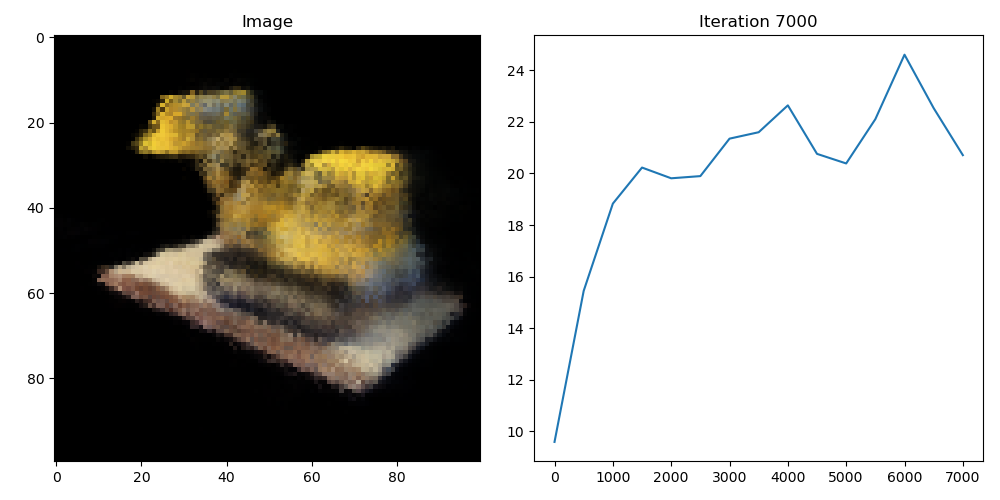
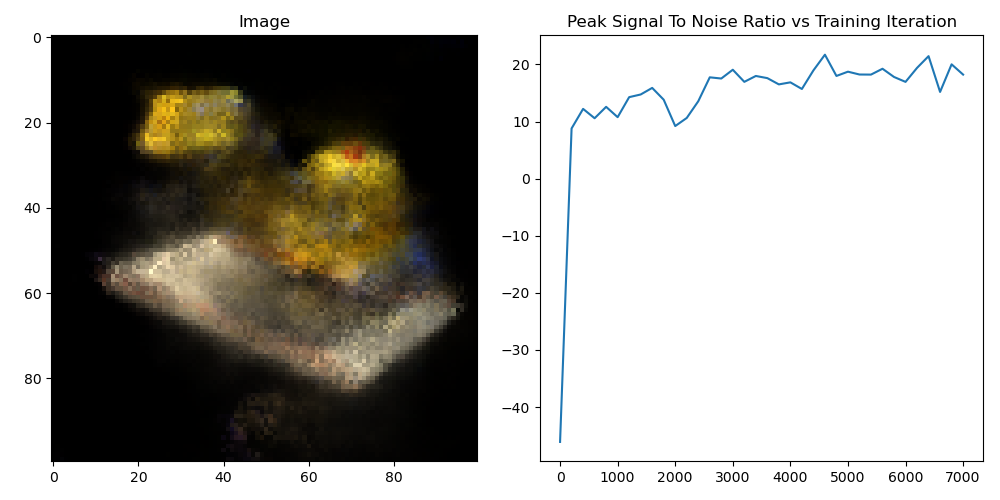
Refactor files to retest tiny NeRF

diff --git a/main.py b/main.py
@@ -3,10 +3,11 @@ from typing import Optional
 import torch
 from matplotlib import pyplot as plt
 from tqdm import tqdm
-# from data_loader import DataLoader
-from lego_data_loader import DataLoader
+from data_loader import DataLoader
+#from lego_data_loader import DataLoader
 from display_helper import display_image, create_video, save_image
 from models.small_NeRF_model import SmallNerfModel
+from models.tiny_NeRF_model import TinyNerfModel
 from nerf_forward_pass import NeRFManager
 from positional_encoding import positional_encoding
 from query_points import QueryPointSamplerFromRays
@@ -21,8 +22,9 @@ def get_minibatches(inputs: torch.Tensor, chunksize: Optional[int] = 2):
 set_random_seeds()
 training_config = load_training_config_yaml()
 device = get_tensor_device()
-# data_manager = DataLoader('tiny_nerf_data.npz', device=device)
-data_manager = DataLoader(device)
+print(f'device: {device}')
+data_manager = DataLoader('tiny_nerf_data.npz', device)
+#data_manager = DataLoader(device)
 
 print(f'data manager poses')
 print(data_manager.poses.shape)
@@ -32,6 +34,7 @@ print(data_manager.poses[0])
 lr = training_config['training_variables']['learning_rate']
 num_iters = training_config['training_variables']['num_iters']
 num_encoding_functions = training_config['positional_encoding']['num_encoding_functions']
+depth_samples_per_ray = training_config['rendering_variables']['depth_samples_per_ray']
 
 # Misc parameters
 display_every = training_config['display_variables']['display_every']
@@ -40,22 +43,17 @@ display_every = training_config['display_variables']['display_every']
 encode = lambda x: positional_encoding(x, num_encoding_functions)
 
 # Initialize model and optimizer
-model = SmallNerfModel(num_encoding_functions).to(device)
+model = TinyNerfModel(num_encoding_functions).to(device)
+#model = SmallNerfModel(num_encoding_functions).to(device)
 optimizer = torch.optim.Adam(model.parameters(), lr=lr)
 
 # Setup classes
 query_sampler = QueryPointSamplerFromRays(training_config)
 rays_from_camera_builder = RaysFromCameraBuilder(data_manager, device)
-NeRF_manager = NeRFManager(encode, rays_from_camera_builder, query_sampler)
+NeRF_manager = NeRFManager(encode, rays_from_camera_builder, query_sampler, depth_samples_per_ray, num_encoding_functions)
 
 psnrs = []
 test_img, test_pose = data_manager.get_random_image_and_pose_example()
-#plt.imshow(test_img.cpu())
-#print(f'test image: {test_img.shape}')
-#for row in test_img.cpu():
-#    for col in row:
-#        if col[0] != 0 and col[1] != 0 and col[2] != 0:
-#            print(col)
 for i in tqdm(range(num_iters)):
 
     target_img, target_tform_cam2world = data_manager.get_image_and_pose(i)
@@ -69,7 +67,7 @@ for i in tqdm(range(num_iters)):
         psnrs.append(psnr.item())
 
         print("Loss:", loss.item())
-        display_image(i, display_every, psnrs, rgb_predicted.clip(0, 255)/255)
+        display_image(i, display_every, psnrs, rgb_predicted)#/255)
 
     if i == num_iters - 1:
         save_image(display_every, psnrs, rgb_predicted)

diff --git a/nerf_forward_pass.py b/nerf_forward_pass.py
@@ -6,11 +6,13 @@ from render_volume_density import render_volume_density
 
 
 class NeRFManager(nn.Module):
-    def __init__(self, encoding_function, rays_from_camera_builder, query_sampler):
+    def __init__(self, encoding_function, rays_from_camera_builder, query_sampler, depth_samples_per_ray, num_encoding_functions):
         super().__init__()
         self.encoding_function = encoding_function
         self.rays_from_camera_builder = rays_from_camera_builder
         self.query_sampler = query_sampler
+        self.depth_samples_per_ray = depth_samples_per_ray
+        self.input_dim = 3 + 3 * 2 * num_encoding_functions
 
     def forward(self, model, tform_cam2world, target_img, optimizer):
 
@@ -19,19 +21,18 @@ class NeRFManager(nn.Module):
         query_points, depth_values = self.query_sampler.compute_query_points_from_rays(ray_origins, ray_directions)
 
         encoded_points = self.encoding_function(query_points)
-
-        encoded_points_example = encoded_points.reshape(-1, 32, 63)
+        encoded_points_example = encoded_points.reshape(-1, self.query_sampler.depth_samples_per_ray, self.input_dim)
 
         rgb_predicted = []
         loss_sum = 0
-        chunksize = 400
+        chunksize = 1000
         num_of_chunks = encoded_points_example.shape[0] // chunksize
         for j in range(0, encoded_points_example.shape[0], chunksize):
             cur_encoded_points = encoded_points_example[j: j+chunksize]
 
             rgb, density = model(cur_encoded_points)
 
-            cur_depth_values = depth_values.reshape(-1, 32)[j: j+chunksize]
+            cur_depth_values = depth_values.reshape(-1, self.query_sampler.depth_samples_per_ray)[j: j+chunksize]
 
             cur_rgb_predicted = render_volume_density(rgb, density, cur_depth_values)
 
@@ -45,5 +46,5 @@ class NeRFManager(nn.Module):
             optimizer.zero_grad()
             model.zero_grad()
 
-        rgb_predicted = torch.concatenate(rgb_predicted, dim=0).reshape(800, 800, 3)
+        rgb_predicted = torch.concatenate(rgb_predicted, dim=0).reshape(100, 100, 3)
         return rgb_predicted, loss_sum

diff --git a/models/tiny_NeRF_model.py b/models/tiny_NeRF_model.py
@@ -1,9 +1,9 @@
 import torch
 
 
-class VeryTinyNerfModel(torch.nn.Module):
-    def __init__(self, filter_size=128, num_encoding_functions=6):
-        super(VeryTinyNerfModel, self).__init__()
+class TinyNerfModel(torch.nn.Module):
+    def __init__(self, num_encoding_functions, filter_size=128):
+        super(TinyNerfModel, self).__init__()
         # Input layer (default: 39 -> 128)
         self.layer1 = torch.nn.Linear(3 + 3 * 2 * num_encoding_functions, filter_size)
         # Layer 2 (default: 128 -> 128)
@@ -12,9 +12,14 @@ class VeryTinyNerfModel(torch.nn.Module):
         self.layer3 = torch.nn.Linear(filter_size, 4)
         # Short hand for torch.nn.functional.relu
         self.relu = torch.nn.functional.relu
+        self.sig = torch.sigmoid
+        self.rgb_layer = torch.nn.Linear(filter_size, 3)
+        self.density = torch.nn.Linear(filter_size, 1)
 
     def forward(self, x):
         x = self.relu(self.layer1(x))
         x = self.relu(self.layer2(x))
-        x = self.layer3(x)
-        return x
+        # x = self.layer3(x)
+        rgb = self.sig(self.rgb_layer(x))
+        density = self.sig(self.density(x))*10
+        return rgb, torch.squeeze(density)

diff --git a/models/small_NeRF_model.py b/models/small_NeRF_model.py
@@ -5,6 +5,7 @@ class SmallNerfModel(torch.nn.Module):
     def __init__(self, num_encoding_functions):
         super(SmallNerfModel, self).__init__()
         filter_size = 128
+
         self.layer1 = torch.nn.Linear(3 + 3 * 2 * num_encoding_functions, filter_size)
         self.layer2 = torch.nn.Linear(filter_size, filter_size)
         self.layer3 = torch.nn.Linear(filter_size, filter_size)
@@ -28,7 +29,7 @@ class SmallNerfModel(torch.nn.Module):
         y = self.relu(self.layer4(y))
         y = self.relu(self.layer5(y))
 
-        rgb = self.relu(self.rgb_layer(y))
+        rgb = self.sig(self.rgb_layer(y))
         density = self.relu(self.density_layer(y))
         density = torch.squeeze(density)
 

diff --git a/display_helper.py b/display_helper.py
@@ -6,6 +6,10 @@ from tqdm import tqdm
 
 
 def display_image(iteration, display_every, psnrs, rgb_predicted):
+    print(f'1 min: {torch.min(rgb_predicted)} max: {torch.max(rgb_predicted)} mean: {torch.mean(rgb_predicted)}')
+    #if torch.max(rgb_predicted) > 1:
+    #    rgb_predicted = rgb_predicted.clip(0, 255) / 255
+    print(f'2 min: {torch.min(rgb_predicted)} max: {torch.max(rgb_predicted)} mean: {torch.mean(rgb_predicted)}')
     iternums = [i * display_every for i in range(len(psnrs))]
     plt.figure(figsize=(10, 4))
     plt.subplot(121)

diff --git a/lego_data_loader.py b/lego_data_loader.py
@@ -23,7 +23,7 @@ class DataLoader:
 
         self.images = torch.from_numpy(self.get_images()).type(torch.FloatTensor).to(device)
         self.poses = torch.from_numpy(self.get_poses()).type(torch.FloatTensor).to(device)
-        self.focal = 128#torch.from_numpy(np.array([128.0])).to(device)
+        self.focal = 1200#torch.from_numpy(np.array([128.0])).to(device)
 
         self.num_of_images = self.images.shape[0]
 

diff --git a/setup_utils.py b/setup_utils.py
@@ -4,8 +4,7 @@ import torch
 import yaml
 
 
-#def set_random_seeds(seed=9458):
-def set_random_seeds(seed=2000):
+def set_random_seeds(seed=9458):
     torch.manual_seed(seed)
     np.random.seed(seed)
     random.seed(seed)
